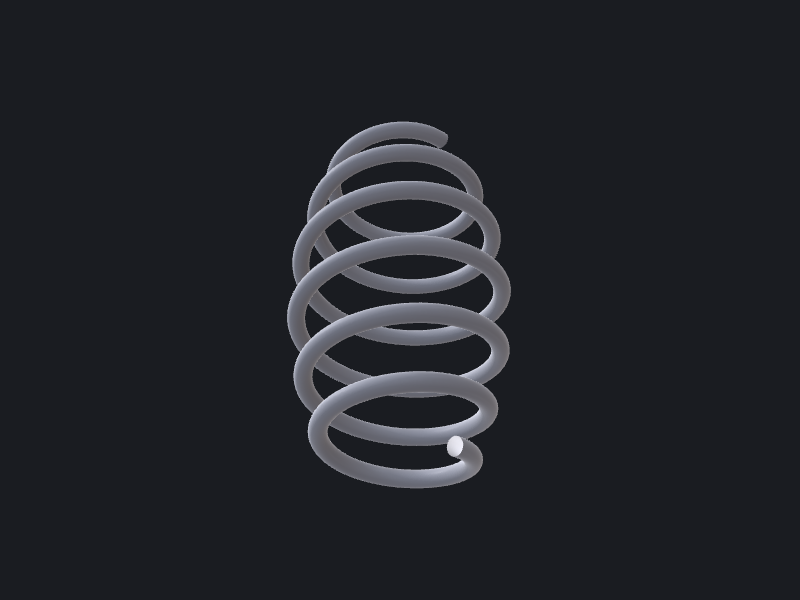
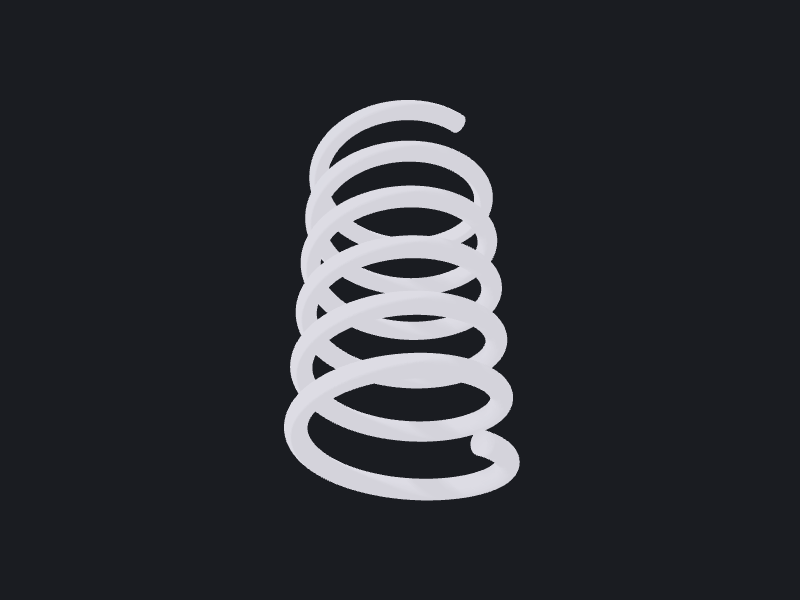
fix: cap the helical spring pipe sweep into a solid
Shape.sweep(profile:along:) wraps BRepOffsetAPI_MakePipe, which never caps the
ends of the swept tube: it returns a shell even for a closed circular profile.
Switch to Shape.pipeShell(spine:profile:mode:solid:), which wraps
BRepOffsetAPI_MakePipeShell and has an explicit solid: flag that caps the ends
into a genuine solid. This is the documented canonical spring recipe in the
OCCTSwift cookbook (Helices & Springs), reached independently of the recipe 03
fix since this is a pipe sweep, not a revolve.

Regenerated the committed output.brep and output.png. Volume drops from
9729.67 to 8575.15 mm^3 (-11.9%). Unlike recipe 03, this is not a hidden second
bug: an open (uncapped) shell has no well-defined enclosed volume, so
Shape.volume on the old shell was already reading an artifact of the algorithm,
not a physical quantity. The new, capped-solid volume matches the analytic
round-wire coil formula pi * r^2 * L (r = 2mm, L = coil length over 6 turns at
mean radius 18mm and pitch 12mm) to within 0.06%, the old one was off by 13%.

Part of #100.

Changed region(s): [[0.3438, 0.15, 0.6562, 0.84]]

diff --git a/recipes/02-helical-spring/main.swift b/recipes/02-helical-spring/main.swift
@@ -4,11 +4,16 @@
 // Outputs: one solid body: a constant-pitch round-wire compression spring.
 // Notes:   The coil centre-line is a helix (Wire.helix); the wire cross-section is a
 //          circle placed at the helix start and oriented along the start tangent, then
-//          swept along the path (Shape.sweep → BRepOffsetAPI_MakePipe). The section
+//          swept along the path with Shape.pipeShell(..., solid: true) (OCCTSwiftScripts
+//          #100). Shape.sweep wraps BRepOffsetAPI_MakePipe, which never caps the ends of
+//          the swept tube and so returns a shell even for a closed circular profile;
+//          Shape.pipeShell wraps BRepOffsetAPI_MakePipeShell, which has an explicit
+//          `solid:` flag that caps the ends into a genuine solid. This is the documented
+//          canonical spring recipe (OCCTSwift cookbook, Helices & Springs). The section
 //          MUST sit on the spine start and face along the tangent or the pipe fails.
-//          Shape.sweep orientation-normalises its result (OCCTSwift v1.3.1, #170), so the
-//          solid has positive volume regardless of section sense. Ground/closed ends are
-//          out of scope here; this is an open-coil spring.
+//          `mode: .correctedFrenet` keeps the round section true along the coil (plain
+//          .frenet also builds a valid solid but lets the section twist slightly).
+//          Ground/closed ends are out of scope here; this is an open-coil spring.
 //
 // Run:  swift run occtkit run recipes/02-helical-spring/main.swift --format brep
 
@@ -39,7 +44,7 @@ let tLen = (t.x * t.x + t.y * t.y + t.z * t.z).squareRoot()
 let tangent = SIMD3<Double>(t.x / tLen, t.y / tLen, t.z / tLen)
 let section = Wire.circle(origin: SIMD3(meanRadius, 0, 0), normal: tangent, radius: wireDia / 2)!
 
-let spring = Shape.sweep(profile: section, along: path)!
+let spring = Shape.pipeShell(spine: path, profile: section, mode: .correctedFrenet, solid: true)!
 try ctx.add(spring, color: C.steel, name: "Compression spring")
 
 print("Free length ≈ \(pitch * activeCoils) mm, spring volume: \(spring.volume ?? 0) mm³")

diff --git a/recipes/02-helical-spring/README.md b/recipes/02-helical-spring/README.md
@@ -20,24 +20,29 @@ Mean coil radius is derived: `meanRadius = (outsideDia − wireDia) / 2`.
 
 The coil centre-line is a helix about Z (`Wire.helix`). The wire cross-section is a
 circle placed at the helix start point `(meanRadius, 0, 0)` and oriented along the start
-tangent `(0, R, pitch/2π)`. The section is then swept along the helix with `Shape.sweep`
-(which wraps `BRepOffsetAPI_MakePipe`). `sweep` orientation-normalises its result, so the
-solid comes back with positive volume regardless of the section's sense.
+tangent `(0, R, pitch/2π)`. The section is then swept along the helix with
+`Shape.pipeShell(spine:profile:mode:solid:)` (which wraps
+`BRepOffsetAPI_MakePipeShell`), passing `solid: true` so the swept ends are capped into
+a genuine solid rather than an open tube surface (see Gotchas). `mode: .correctedFrenet`
+keeps the round section true along the coil.
 
 ## OCCTSwift APIs used
 
 - `Wire.helix(radius:pitch:turns:)`: the coil centre-line
 - `Wire.circle(origin:normal:radius:)`: the wire cross-section
-- `Shape.sweep(profile:along:)`: pipe-sweep the section along the helix
+- `Shape.pipeShell(spine:profile:mode:solid:)`: pipe-sweep the section along the helix into a capped solid
 - `Shape.volume`: sanity print
 
 ## Gotchas
 
+- **Use `Shape.pipeShell(..., solid: true)`, not `Shape.sweep`, for a spring.**
+  `Shape.sweep(profile:along:)` wraps `BRepOffsetAPI_MakePipe`, which never caps the
+  ends of the swept tube, it returns a **shell** even for a closed circular profile
+  (OCCTSwiftScripts #100). `Shape.pipeShell` wraps `BRepOffsetAPI_MakePipeShell`, which
+  has an explicit `solid:` flag that caps the ends into a real solid. This is the
+  documented canonical spring recipe (OCCTSwift cookbook, Helices & Springs).
 - The section circle **must** sit on the spine start and face along the tangent, or the
   pipe sweep fails. Don't leave it at the origin.
-- `Shape.sweep` orientation-normalises since OCCTSwift v1.3.1, so you no longer need to
-  flip the section sense to avoid a negative-volume solid. Use `Shape.signedVolume` if you
-  need to inspect the raw orientation, or `Shape.orientedForward()` to normalise explicitly.
 - Ground/closed/squared ends are **out of scope**: this is an open-coil spring. Closed
   ends need either a variable-pitch helix or an end-grinding boolean.
 - `Wire.helix` uses `turns:` (a coil count), **not** a `height:`. Free length ≈ `pitch ·
